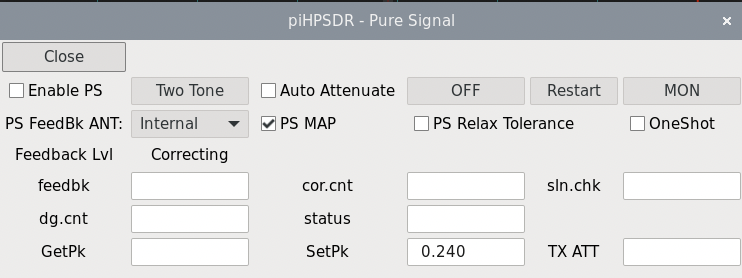
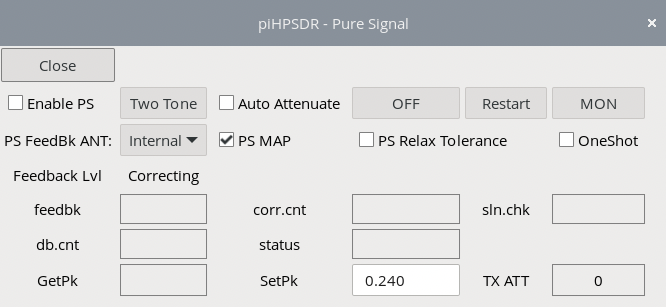
Manual: new figures for the PS menu

diff --git a/release/LatexManual/piHPSDR-Manual.tex b/release/LatexManual/piHPSDR-Manual.tex
@@ -2999,15 +2999,13 @@ and 7101 kHz, are transmitted. If both carriers contain 25W power, this is
 a 100W PEP signal. Non-linearity of the PA first lead to the occurrence of harmonics
 (in this case around 14.2, 21.3, and 28.4 MHz). This is not a problem because
 such harmonics are  damped by the TX low-pass filters. Higher-order non-linear effects,
-however, lead to additional in-band signals, in our example they occur at
-7102/7099, 7103/7098 etc. kHz. The low-pass filters cannot eliminate these signals,
+however, lead to additional \textit{in-band} signals that cannot be filtered out.
+In our example they occur at
+7102/7099, 7103/7098 etc. kHz. Since these signals cannot be filtered out,
 they lead to unwanted signals (,,splatter'') that disturb QSOs on neighbouring
 frequencies. With PureSignal, you can greatly reduce these unwanted signals.
 If you open the \bltt{PS} menu for the first time it looks like shown in Fig.
 \ref{fig:PSMenu}.
-
-
-
 The elements have the following function:
 
 \rett{Enable PS}. With this check box, PS can be enabled/disabled.
@@ -3072,27 +3070,6 @@ However, if something changes (e.g. output power, or the finals get warm, etc.) 
 calibration is probably no longer valid but still kept. So unless you have good reason,
 do not use the \rett{OneShot} option.
 
-
-\rett{Feedback Lvl}. When doing a PS calibration through a two-tone experiment, this string
-turns red if the feedback level is good. It turns yellow if the feedback level is slightly
-to weak and read if it is too weak. A blue colour indicates a too string feedback level.
-The feedback level reported by the PS calibration algorithm is further reported in the
-,,feedbk'' field. The optimum value is about 154.
-
-\rett{Correcting}. When doing a PS calibration through a two-tone experiment, this string
-is green if calibration was successful and PS correction takes place, and the string is
-red if no good calibration could be made.
-
-\rett{TX ATT}. This element can occur both as a text field or as a spin button.
-If PURESIGNAL is enabled while \rett{Auto Attenuate} is not enabled, it is a spin button with which
-you can manually adjust the RF attenuation. For normal HPSDR radios, this is a value
-between 0 and 31, other radios such as the HermesLite have an extended range from
--29 to 31. If the feedback level is too strong, this value must be increased, if it
-is too strong, it must be decreased. It is, however, recommended to enable \rett{Auto Attenuate}.
-In this case, the \rett{TX ATT} just shows the current attenuation.
-Note that if \texttt{PURESIGNAL} is not enabled, the RF input attenuators
-will automatically be set to maximum attenuation while transmitting with the PA enabled.
-
 \rett{SetPk}. This field shows the currently assumed value of the peak value of the TX DAC
 feedback signal. \pH chooses is automatically, depending on the radio hardware.
 The standard value for Protocol-1 and Protocol-2 radios are 0.407 and 0.290. Notable exceptions are
@@ -3116,6 +3093,41 @@ or the correct value is again entered in the \rett{SetPk} field. This \textit{ca
 applies if you upgrade your radio firmware from protocol-1 to protocol-2, since then your props
 file still contains the correct protocol-1 value (0.4067) and you have
 to manually modify the \rett{SetPk} value (in this case, to 0.2899).
+
+\rett{TX ATT}. This element can occur both as a text field or as a spin button.
+If PURESIGNAL is enabled while \rett{Auto Attenuate} is \textit{not} enabled, it is a spin button with which
+you can manually adjust the RF attenuation. For normal HPSDR radios, this is a value
+between 0 and 31, other radios such as the HermesLite have an extended range from
+-29 to 31. If the feedback level is too strong, this value must be increased, if it
+is too strong, it must be decreased. It is, however, recommended to enable \rett{Auto Attenuate}.
+In this case, the \rett{TX ATT} field is a text field that shows the current attenuation.
+Note that if \texttt{PURESIGNAL} is not enabled, the RF input attenuators
+will automatically be set to maximum attenuation while transmitting with the PA enabled.
+
+All other fields are not meant for user input, they just give information on the status
+of the \texttt{PURESIGNAL} engine.
+
+\rett{Feedback Lvl}. When doing a PS calibration through a two-tone experiment, this string
+turns red if the feedback level is good. It turns yellow if the feedback level is slightly
+to weak and read if it is too weak. A blue colour indicates a too strong feedback level.
+The feedback level reported by the PS calibration algorithm is further reported in the
+\rett{feedbk} field. The optimum value is about 154.
+
+\rett{Correcting}. When doing a PS calibration through a two-tone experiment, this string
+is green if calibration was successful and PS correction takes place, and the string is
+red if no good calibration could be made.
+
+The other fields give more information on the \texttt{PURESIGNAL} engine, consult the
+WDSP manual. Noteworthy is the \rett{GetPk} field, that reports the maximum amplitude
+seen in the TX feedback samples. This value remains blank or zero until PS starts working.
+It should be close (ideally, slightly below) the value in the \texttt{SetPk} field.
+If not, then you either have non-standard hardware where \pH does not have a good
+default SetPK value, or the default value has been modified (probably upon startup
+when reading the props file). The field \rett{corr.cnt} shows a running count of corrections
+made during the two-tone experiment. When PS is working, this number should be constantly
+increasing. The \rett{status} field shows the current states of
+the PS engine, which is cycling during normal operation. If the PS engine is halted, 
+the status becomes \bltt{Reset}.
 
 \begin{figure}[t!]
 \center
@@ -3153,9 +3165,12 @@ two peaks on the TX pan-adapter during the two-tone experiment.
 \end{figure}
 
 To demonstrate how PURESIGNAL works, I show an example performed with a Hermes\-Lite-II
-radio running Protocol-1. The radio runs at a sample rate of 96 kHz, since it is my
+radio running Protocol-1. The radio runs at a sample rate of 192 kHz, since it is my
 experience that PURESIGNAL does not work too well in Protocol-1 when it is run
-at 48 kHz. I also activated the optional ``peak labelling''
+at 48 kHz (with 96 or 192 kHz I never see such problems). Note that for Protocol-2 radios
+the PURSESIGNAL engine runs at the fixed TX sample rate (192 kHz) and is completely independent
+on the sample rate of the receiver(s).
+I also activated the optional ``peak labelling''
 in the \bltt{TX Menu} such that the four main peaks heights are also printed
 (in dBm) on the screen. Checking both \rett{Enable PS} and
 \rett{Auto Attenuation}, and hitting the \rett{Two Tone} button, it needs only few
@@ -3163,8 +3178,8 @@ seconds to stabilise and then Fig. \ref{fig:PSnomon} results, where the TX
 spectrum scope and the PS menu window have been arranged such that they do
 not cover each other. Although both the PS menu and the spectrum scope state
 that PS is working and correcting, the signal does not look good: a two-tone
-signal should only have two peaks, but here one sees the two main peaks at $-7$ dBm
-and two IM3 satellites at about $-43$ dBm (this amounts to an IM3 value of only $-36$ dBc).
+signal should only have two peaks, but here one sees the two main peaks at $-6$ dBm
+and two IM3 satellites at about $-41$ dBm (this amounts to an IM3 value of only $-35$ dBc).
 The reason for this seemingly bad performance is of course, that the TX spectrum scope
 normally shows the signal that is \textit{sent} to the PA, so we see a signal that
 is distorted on purpose, and magically
@@ -3174,15 +3189,15 @@ is actually transmitting, one must
 activate the \rett{MON} button such that it is highlighted.
 This is shown in Fig. \ref{fig:PSmon}, where one sees the
 feedback signal, that is, what the PA sends to the antenna.
-This is a much cleaner two-tone signal (the IM3 value is about $-50$ dBc).
+This is a much cleaner two-tone signal (the IM3 value is about $-57$ dBc).
 To demonstrate how effective the PS algorithm is,
 I have pushed the \rett{OFF} button which stops the PureSignal correction, the result
 is shown in Fig. \ref{fig:PSoff}. After hitting that button, IM3 satellites immediately
 grow and IM3 decreases to
 about $-35$ dBc which reflects the intrinsic
 non-linearity of the PA.
-Note that this is still a quite acceptable value.
-Unless you have a class-A amplifier, your PA probably won't be much better.
+Note that this is still a quite acceptable value:
+unless you have a class-A amplifier, your PA probably won't be much better.
 This experiment demonstrates that adaptive pre-distortion is a mechanism that allows you to produce a clean
 signal with a quality that would be impossible (or \textit{very} difficult) to achieve
 with traditional hardware.
